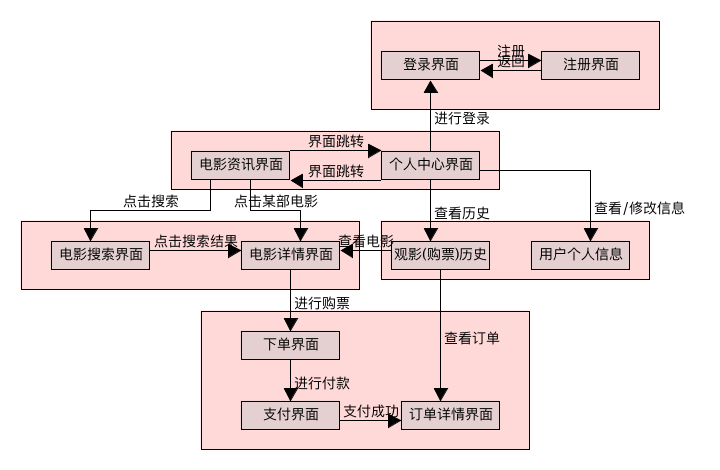
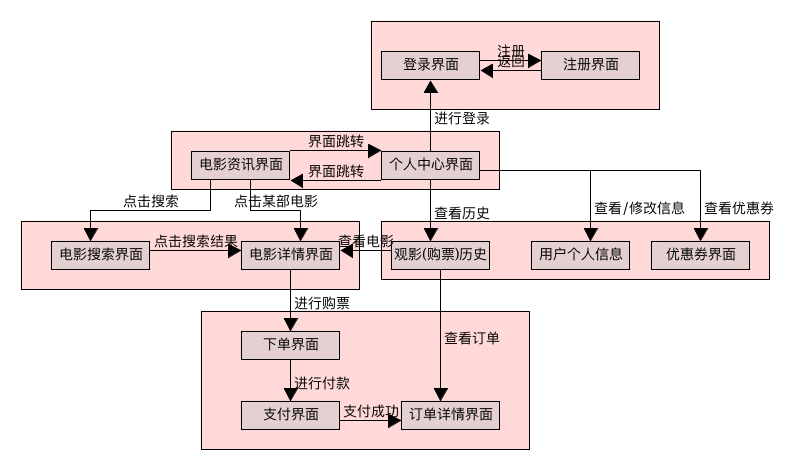
完善界面结构

Changed region(s): [[0.0611, 0.2383, 0.9778, 0.983], [0.4583, 0.0298, 0.9167, 0.2383], [0.0, 0.4766, 0.0306, 0.5957]]

diff --git a/src/router/index.js b/src/router/index.js
@@ -13,6 +13,7 @@ import MovieSearch from '../components/movie/MovieSearch'
 import OrderDetail from '../components/order/OrderDetail'
 import OrderPay from '../components/order/OrderPay'
 import Reservation from '../components/order/Reservation'
+import Coupons from '../components/profile/Coupons'
 import MyOrders from '../components/profile/MyOrders'
 import UserInfo from '../components/profile/UserInfo'
 
@@ -34,6 +35,7 @@ export default new Router({
     { path: '/order-detail', component: OrderDetail },
     { path: '/order-pay', component: OrderPay },
     { path: '/reservation', component: Reservation },
+    { path: '/coupons', component: Coupons },
     { path: '/my-orders', component: MyOrders },
     { path: '/user-info', component: UserInfo },
     { path: '/', redirect: '/main' }

diff --git a/src/components/profile/Coupons.vue b/src/components/profile/Coupons.vue
@@ -1,0 +1,19 @@
+<template lang="pug">
+div#coupons
+  md-toolbar
+    div.md-toolbar-container
+      h2.md-title 优惠券
+</template>
+
+<script>
+export default {
+  name: 'coupons'
+}
+</script>
+
+<style lang="sass">
+#coupons
+  .md-toolbar .md-toolbar-container .md-title
+    flex: 1
+    text-align: center
+</style>

diff --git a/README.md b/README.md
@@ -103,7 +103,8 @@ git pull upstream dev
     │    │   ├─OrderPay.vue：付款界面
     │    │   └─Reservation.vue：下单界面
     │    └─profile：用户中心相关界面
-    │        ├─MyOrders：观影（购票）历史界面
+    │        ├─Coupons.vue：我的优惠券界面
+    │        ├─MyOrders.vue：观影（购票）历史界面
     │        └─UserInfo.vue：用户个人信息界面
     ├─router：前端路由
     ├─store：应用的全局状态管理
